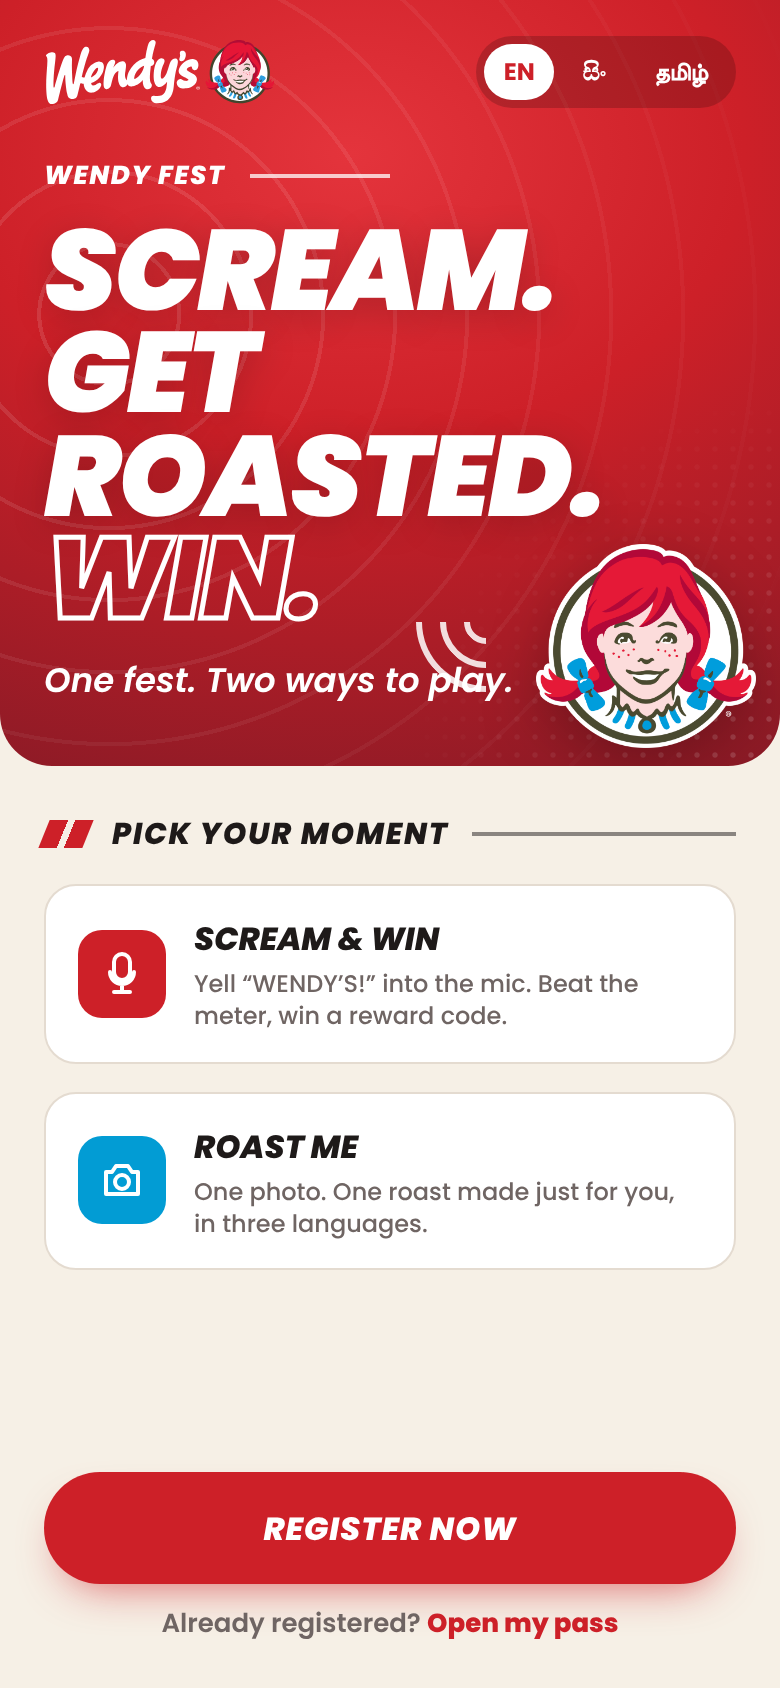
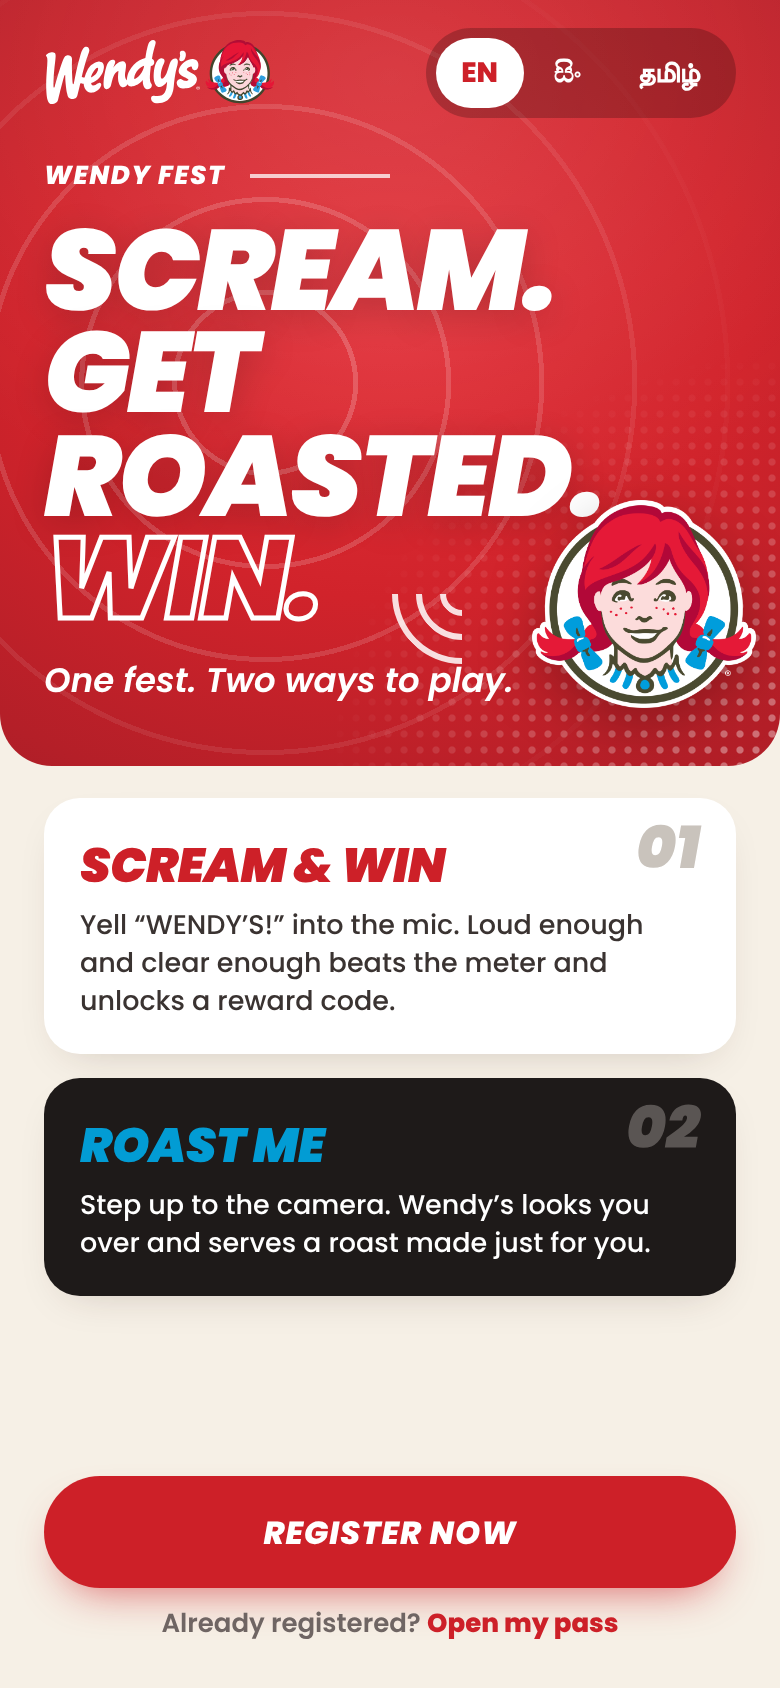
Design proposal: match reference screens (header, entry pass, profile pass); keep original cards and form
Claude-Session: https://claude.ai/code/session_015MHPvZ3kkn8jw5YatKY7r4

diff --git a/design/after.css b/design/after.css
@@ -6,17 +6,21 @@ body { font-family: Poppins, system-ui, sans-serif; color:var(--ink); background
 .phone { width:390px; height:844px; overflow:hidden; position:relative; background:var(--cream); display:flex; flex-direction:column; }
 
 /* ---- red header ---- */
-.hdr { position:relative; color:#fff; padding:16px 22px 26px; border-radius:0 0 26px 26px; overflow:hidden; flex:none;
-  background: radial-gradient(120% 90% at 45% 20%, var(--red-hi) 0%, var(--red) 42%, var(--red-lo) 100%); }
-.hdr::before { content:""; position:absolute; inset:-40%; pointer-events:none; opacity:.14;
-  background: repeating-radial-gradient(circle at 30% 45%, transparent 0 34px, rgba(255,255,255,.9) 34px 36px); mask: radial-gradient(circle at 30% 45%, #000 0%, transparent 62%); -webkit-mask: radial-gradient(circle at 30% 45%, #000 0%, transparent 62%); }
-.hdr::after { content:""; position:absolute; right:-10px; bottom:-10px; width:200px; height:200px; pointer-events:none; opacity:.35;
-  background: radial-gradient(rgba(255,255,255,.55) 1.1px, transparent 1.6px) 0 0/9px 9px; mask: radial-gradient(circle at 100% 100%, #000 0%, transparent 70%); -webkit-mask: radial-gradient(circle at 100% 100%, #000 0%, transparent 70%); }
+.hdr { position:relative; color:#fff; padding:16px 22px 26px; border-radius:0 0 26px 26px; overflow:hidden; flex:none; --rx:50%; --ry:40%;
+  background:
+    radial-gradient(140% 110% at 50% 10%, rgba(255,255,255,.10) 0%, transparent 55%),
+    radial-gradient(120% 100% at 50% 40%, #E3333B 0%, #D1232B 38%, #B41F28 68%, #8C1A23 100%); }
+.hdr::before { content:""; position:absolute; inset:0; pointer-events:none; opacity:.22;
+  background: repeating-radial-gradient(circle at var(--rx) var(--ry), transparent 0 44px, rgba(255,255,255,1) 44px 46.5px);
+  mask: radial-gradient(circle at var(--rx) var(--ry), #000 0%, rgba(0,0,0,.6) 45%, transparent 78%); -webkit-mask: radial-gradient(circle at var(--rx) var(--ry), #000 0%, rgba(0,0,0,.6) 45%, transparent 78%); }
+.hdr::after { content:""; position:absolute; right:-6px; bottom:-6px; width:230px; height:210px; pointer-events:none; opacity:.55;
+  background: radial-gradient(rgba(255,255,255,.75) 1.5px, transparent 2.1px) 0 0/8px 8px;
+  mask: radial-gradient(ellipse at 100% 100%, #000 0%, rgba(0,0,0,.5) 40%, transparent 72%); -webkit-mask: radial-gradient(ellipse at 100% 100%, #000 0%, rgba(0,0,0,.5) 40%, transparent 72%); }
 .hdr > * { position:relative; z-index:1; }
 .top { display:flex; justify-content:space-between; align-items:center; height:40px; }
 .top .lockup { height:34px; }
-.pill { display:flex; align-items:center; gap:4px; background:rgba(0,0,0,.18); border-radius:999px; padding:4px; font-size:12px; font-weight:700; }
-.pill span { padding:5px 10px; border-radius:999px; }
+.pill { display:flex; align-items:center; gap:2px; background:rgba(0,0,0,.22); border-radius:999px; padding:5px; font-size:14px; font-weight:800; }
+.pill span { padding:7px 13px; border-radius:999px; }
 .pill .on { background:#fff; color:var(--red); }
 .eyebrow { display:flex; align-items:center; gap:12px; font-style:italic; font-weight:800; text-transform:uppercase; letter-spacing:.06em; font-size:13px; margin-top:22px; }
 .eyebrow::after { content:""; flex:1; max-width:70px; height:2px; background:rgba(255,255,255,.75); }
@@ -27,12 +31,12 @@ body { font-family: Poppins, system-ui, sans-serif; color:var(--ink); background
 .h1 { font-size:57px; margin-top:12px; text-shadow:0 4px 18px rgba(0,0,0,.18); }
 .h1 .outline { color:transparent; -webkit-text-stroke:2.5px #fff; text-shadow:none; }
 .h2 { font-size:52px; margin-top:12px; }
-.sub { font-style:italic; font-weight:600; font-size:17px; margin-top:12px; }
+.sub { font-style:italic; font-weight:600; font-size:18px; margin-top:12px; }
 .waves { position:absolute; width:70px; height:70px; }
 .waves i { position:absolute; inset:0; border:3px solid rgba(255,255,255,.85); border-radius:50%; border-color:rgba(255,255,255,.85) transparent transparent transparent; transform:rotate(-135deg); }
 .waves i:nth-child(2) { inset:12px; border-width:3px; } .waves i:nth-child(3) { inset:24px; }
 .cameo { position:absolute; filter:drop-shadow(0 8px 14px rgba(0,0,0,.25)); }
-.check { width:64px; height:64px; border-radius:50%; border:4px solid #fff; display:grid; place-items:center; margin:18px auto 0; }
+.check { width:80px; height:80px; border-radius:50%; border:5px solid #fff; display:grid; place-items:center; margin:16px auto 0; }
 
 /* ---- body ---- */
 .body { padding:18px 22px 22px; display:flex; flex-direction:column; flex:1; gap:14px; }
@@ -60,35 +64,37 @@ body { font-family: Poppins, system-ui, sans-serif; color:var(--ink); background
 .consent i::after { content:""; position:absolute; left:6px; top:2px; width:4px; height:9px; border:solid #fff; border-width:0 2px 2px 0; transform:rotate(45deg); }
 
 /* entry pass card */
-.epass { position:relative; background:#fff; border-radius:18px; border:1.5px solid var(--line); overflow:hidden; padding:18px 18px 16px; }
-.epass::before { content:""; position:absolute; left:-30px; top:-30px; width:120px; height:60px; background:var(--red); border-radius:0 0 60px 0; transform:rotate(-8deg); }
-.epass .head { display:flex; align-items:center; gap:14px; position:relative; }
-.epass .head .lockup { height:34px; }
-.epass .head .vr { width:1.5px; height:40px; background:var(--line); }
-.epass .head .t1 { font-weight:800; font-style:italic; text-transform:uppercase; font-size:14px; }
-.epass .head .t2 { color:var(--red); font-weight:800; letter-spacing:.14em; text-transform:uppercase; font-size:12px; }
-.epass .hr { height:1.5px; background:var(--line); margin:16px -18px; }
-.code { font-weight:900; font-style:italic; font-size:50px; letter-spacing:.02em; line-height:1; }
-.copy { width:44px; height:44px; border:2px solid var(--red); border-radius:10px; display:grid; place-items:center; color:var(--red); flex:none; }
-.onecode { display:flex; align-items:center; gap:10px; font-weight:800; letter-spacing:.16em; text-transform:uppercase; font-size:11px; margin-top:12px; }
+.epass { position:relative; background:#FBF6EE; border-radius:16px; border:1.5px solid #B9B0A6; overflow:hidden; padding:22px 20px 22px; }
+.epass .swoosh { position:absolute; left:-2px; top:-2px; width:200px; height:70px; pointer-events:none; }
+.epass .head { display:flex; align-items:center; gap:18px; position:relative; }
+.epass .head .lockup { height:44px; }
+.epass .head .vr { width:1.5px; height:56px; background:#8F867E; }
+.epass .head .t1 { font-weight:800; font-style:italic; text-transform:uppercase; font-size:17px; letter-spacing:.02em; color:#1E1A19; }
+.epass .head .t2 { color:var(--red); font-weight:800; letter-spacing:.14em; text-transform:uppercase; font-size:15px; margin-top:2px; }
+.epass .hr { height:1.5px; background:#9E958C; margin:20px 0 20px; }
+.code { font-weight:900; font-style:italic; font-size:54px; letter-spacing:-.01em; line-height:1; color:#1E1A19; }
+.copy { width:54px; height:54px; border:1.5px solid #C9A7A9; background:#FFF8F2; border-radius:12px; display:grid; place-items:center; color:var(--red); flex:none; box-shadow:0 2px 0 #E8D8D4; }
+.onecode { display:flex; align-items:center; gap:12px; font-weight:800; letter-spacing:.16em; text-transform:uppercase; font-size:12px; margin-top:16px; color:#1E1A19; }
 .onecode::before, .onecode::after { content:""; flex:1; height:1.5px; background:var(--red); }
-.barcode { height:46px; margin:12px 0 0; background:repeating-linear-gradient(90deg, var(--ink) 0 2px, transparent 2px 4px, var(--ink) 4px 5px, transparent 5px 8px, var(--ink) 8px 11px, transparent 11px 13px, var(--ink) 13px 14px, transparent 14px 18px); border-radius:2px; }
+.barcode { height:48px; margin:14px 6px 0; background:repeating-linear-gradient(90deg, #1E1A19 0 2px, transparent 2px 4px, #1E1A19 4px 5px, transparent 5px 9px, #1E1A19 9px 12px, transparent 12px 14px, #1E1A19 14px 15px, transparent 15px 17px, #1E1A19 17px 19px, transparent 19px 23px); }
 .note { text-align:center; margin-top:4px; }
-.note b { display:block; font-style:italic; font-weight:800; font-size:17px; }
-.note span { font-style:italic; font-size:14px; color:var(--mute); }
+.note b { display:block; font-style:italic; font-weight:800; font-size:19px; }
+.note span { font-style:italic; font-size:15px; color:#3A3331; font-weight:500; }
 
 /* profile pass */
-.ppass { position:relative; margin-top:16px; border-radius:16px; overflow:hidden; padding:16px 18px 18px; color:#fff; border:1.5px solid rgba(255,255,255,.35);
-  background: linear-gradient(135deg, #E23A42 0%, var(--red) 45%, #9E1F2B 100%); box-shadow:0 14px 26px -14px rgba(0,0,0,.45); }
-.ppass .wf { font-weight:800; font-style:italic; text-transform:uppercase; font-size:13px; display:flex; align-items:center; gap:10px; }
-.ppass .wf::after { content:""; width:36px; height:2px; background:rgba(255,255,255,.7); }
-.ppass .pn { font-weight:700; letter-spacing:.12em; text-transform:uppercase; font-size:11px; margin-top:6px; opacity:.95; }
-.ppass .name { font-size:30px; margin-top:8px; width:230px; }
-.ppass .ec { margin-top:14px; display:flex; align-items:center; gap:12px; }
-.ppass .ec .l { font-weight:700; letter-spacing:.12em; text-transform:uppercase; font-size:11px; }
-.ppass .ec .c { font-weight:900; font-style:italic; font-size:26px; letter-spacing:.02em; }
-.ppass .copy { width:40px; height:40px; border-color:#fff; color:#fff; border-radius:9px; }
-.ppass .ghost { position:absolute; right:-40px; top:0; height:118%; opacity:.28; filter:grayscale(1) brightness(1.25); mix-blend-mode:screen; pointer-events:none; }
+.ppass { position:relative; margin-top:18px; border-radius:18px; overflow:hidden; padding:20px 20px 22px; color:#fff; border:2px solid rgba(255,255,255,.85);
+  background: linear-gradient(118deg, #D9262E 0%, #C7212A 48%, #A61D27 100%); box-shadow:0 16px 30px -14px rgba(0,0,0,.5); }
+.ppass .wf { font-weight:800; font-style:italic; text-transform:uppercase; font-size:16px; letter-spacing:.02em; display:flex; align-items:center; gap:12px; }
+.ppass .wf::after { content:""; width:44px; height:2px; background:rgba(255,255,255,.85); }
+.ppass .pn { font-weight:700; letter-spacing:.14em; text-transform:uppercase; font-size:13px; margin-top:8px; }
+.ppass .name { font-size:34px; margin-top:10px; width:250px; line-height:.95; }
+.ppass .rule { height:1.5px; background:rgba(255,255,255,.8); margin:16px 0 14px; width:62%; }
+.ppass .ec { display:flex; align-items:center; gap:16px; }
+.ppass .ec .l { font-weight:800; letter-spacing:.14em; text-transform:uppercase; font-size:14px; }
+.ppass .ec .c { font-weight:900; font-style:italic; font-size:34px; letter-spacing:.01em; line-height:1.05; }
+.ppass .copy { width:52px; height:52px; border:2px solid rgba(255,255,255,.9); background:rgba(255,255,255,.06); color:#fff; border-radius:12px; box-shadow:none; }
+.ppass .ghost { position:absolute; right:-60px; top:-4px; height:114%; opacity:.55; filter:grayscale(1) contrast(1.05) brightness(1.05); mix-blend-mode:multiply; pointer-events:none; }
+.ppass > *:not(.ghost) { position:relative; z-index:1; }
 .two { display:grid; grid-template-columns:1fr 1fr; gap:12px; }
 .tiles { display:grid; grid-template-columns:repeat(4,1fr); gap:8px; }
 .tile { border:1.5px solid var(--line); border-radius:12px; background:#fff; padding:10px 4px; text-align:center; font-weight:800; font-size:9.5px; letter-spacing:.04em; text-transform:uppercase; display:grid; justify-items:center; gap:6px; }
@@ -97,3 +103,21 @@ body { font-family: Poppins, system-ui, sans-serif; color:var(--ink); background
 .stat .k { font-weight:800; font-style:italic; text-transform:uppercase; font-size:13px; }
 .stat .v { font-weight:900; font-style:italic; font-size:22px; color:var(--red); }
 .stat .m { font-size:11.5px; color:var(--mute); }
+
+/* landing cards (kept from the original mock) */
+.mcard { position:relative; background:#fff; border-radius:18px; padding:16px 18px 16px; box-shadow:0 8px 22px -12px rgba(60,30,25,.25); }
+.mcard .num { position:absolute; right:18px; top:10px; font-weight:900; font-style:italic; font-size:30px; color:#C9C3BC; line-height:1; }
+.mcard .t { font-weight:900; font-style:italic; text-transform:uppercase; font-size:24px; color:var(--red); letter-spacing:-.01em; }
+.mcard .d { font-size:13.5px; line-height:1.4; color:#3A3331; margin-top:4px; font-weight:500; }
+.mcard.dark { background:#1E1A19; }
+.mcard.dark .t { color:var(--blue); } .mcard.dark .d { color:#fff; } .mcard.dark .num { color:#5A5553; }
+/* register form (kept from the original mock) */
+.form { background:#fff; border-radius:22px; padding:20px 18px 18px; box-shadow:0 12px 30px -16px rgba(60,30,25,.35); position:relative; z-index:2; }
+.field { margin-bottom:12px; }
+.field label { font-size:15px; }
+.field .in { height:52px; border-radius:14px; border:1.5px solid #CFC7BE; font-size:16px; }
+.field .in.ph { color:#9A918A; font-weight:500; }
+.field .help { font-size:12px; color:var(--mute); margin-top:6px; }
+.consent { font-size:12.5px; color:#3A3331; padding:2px 2px 14px; align-items:center; }
+.consent span { line-height:1.35; }
+.form .btn { margin-top:2px; }

diff --git a/design/after.html b/design/after.html
@@ -13,19 +13,18 @@
 
 <!-- 1 LANDING -->
 <section class="phone" id="landing">
-  <header class="hdr" style="padding-bottom:30px">
+  <header class="hdr" style="padding-bottom:30px;--rx:34%;--ry:50%">
     <div class="top"><img class="lockup" src="wendys-horiz-white.svg" alt="Wendy's"><div class="pill"><span class="on">EN</span><span>සිං</span><span>தமிழ்</span></div></div>
     <div class="eyebrow">Wendy Fest</div>
     <h1 class="display h1">Scream.<br>Get<br>roasted.<br><span class="outline">Win.</span></h1>
-    <p class="sub">One fest. Two ways to play.</p>
-    <div class="waves" style="right:112px;top:276px"><i></i><i></i><i></i></div>
-    <img class="cameo" src="cameo.png" alt="" style="right:12px;top:272px;width:110px">
+    <p class="sub" style="max-width:238px;font-size:17px">One fest. Two ways to play.</p>
+    <div class="waves" style="right:124px;top:262px"><i></i><i></i><i></i></div>
+    <img class="cameo" src="cameo.png" alt="" style="right:12px;top:250px;width:112px">
   </header>
-  <div class="body">
-    <div class="eyebrow dark" style="margin-top:4px">Pick your moment</div>
-    <div class="card opt"><div class="ic"><svg width="24" height="24"><use href="#i-mic"/></svg></div><div><div class="t">Scream &amp; Win</div><div class="d">Yell “WENDY’S!” into the mic. Beat the meter, win a reward code.</div></div></div>
-    <div class="card opt"><div class="ic blue"><svg width="24" height="24"><use href="#i-cam"/></svg></div><div><div class="t">Roast Me</div><div class="d">One photo. One roast made just for you, in three languages.</div></div></div>
-    <div style="margin-top:auto;display:grid;gap:10px">
+  <div class="body" style="gap:12px;padding-top:16px">
+    <div class="mcard"><div class="num">01</div><div class="t">Scream &amp; Win</div><div class="d">Yell “WENDY’S!” into the mic. Loud enough and clear enough beats the meter and unlocks a reward code.</div></div>
+    <div class="mcard dark"><div class="num">02</div><div class="t">Roast Me</div><div class="d">Step up to the camera. Wendy’s looks you over and serves a roast made just for you.</div></div>
+    <div style="margin-top:auto;display:grid;gap:8px">
       <a class="btn" href="#">Register now</a>
       <div class="link">Already registered? <b>Open my pass</b></div>
     </div>
@@ -34,39 +33,38 @@
 
 <!-- 2 REGISTER -->
 <section class="phone" id="register">
-  <header class="hdr">
+  <header class="hdr" style="padding-bottom:56px;--rx:30%;--ry:60%">
     <div class="top"><img class="lockup" src="wendys-horiz-white.svg" alt="Wendy's"><div class="pill"><span class="on">EN</span><span>සිං</span><span>தமிழ்</span></div></div>
-    <div class="eyebrow">Your moment starts here</div>
-    <h1 class="display h2">Make it<br>yours.</h1>
+    <div class="eyebrow" style="margin-top:16px">Wendy Fest</div>
+    <h1 class="display h2" style="font-size:46px;margin-top:8px">Register</h1>
+    <p class="sub" style="font-style:normal;font-weight:600;font-size:15px;margin-top:8px">Your next big moment starts here.</p>
   </header>
-  <div class="body" style="gap:12px">
-    <div class="card form">
-      <div class="field"><label>Full name</label><div class="in">Hirusha Dayananda</div></div>
-      <div class="field"><label>Mobile number</label><div class="in">077 123 4567</div></div>
-      <div class="field"><label>Email <small>(optional)</small></label><div class="in ph">you@example.com</div></div>
-      <div class="field"><label>Date of birth</label><div class="in ph">DD / MM / YYYY</div></div>
-      <label class="consent"><i></i><span>Wendy’s Sri Lanka can message me about Wendy Fest and launch offers.</span></label>
-    </div>
-    <div style="margin-top:auto;display:grid;gap:10px">
+  <div class="body" style="gap:12px;padding-top:0;margin-top:-40px">
+    <div class="form">
+      <div class="field"><label>Your name</label><div class="in"></div></div>
+      <div class="field"><label>Mobile number</label><div class="in ph">07X XXX XXXX</div><div class="help">We’ll SMS your code to this number.</div></div>
+      <div class="field"><label>Email <small>(optional)</small></label><div class="in"></div></div>
+      <div class="field"><label>Date of birth</label><div class="in"></div></div>
+      <label class="consent"><i></i><span>I agree to Wendy’s Sri Lanka contacting me about Wendy Fest and launch offers.</span></label>
       <a class="btn" href="#">Get my code</a>
-      <div class="link">We’ll SMS your code to this number.</div>
     </div>
   </div>
 </section>
 
 <!-- 3 CONFIRM -->
 <section class="phone" id="confirm">
-  <header class="hdr" style="text-align:center;padding-bottom:24px">
+  <header class="hdr" style="text-align:center;padding-bottom:26px;--rx:50%;--ry:46%">
     <div class="top"><img class="lockup" src="wendys-horiz-white.svg" alt="Wendy's"><div class="pill"><span class="on">EN</span><span>සිං</span><span>தமிழ்</span></div></div>
-    <div class="check"><svg width="32" height="32"><use href="#i-check"/></svg></div>
-    <h1 class="display h2" style="margin-top:12px">You’re in.</h1>
+    <div class="check"><svg width="40" height="40"><use href="#i-check"/></svg></div>
+    <h1 class="display h2" style="margin-top:14px;font-size:58px">You’re in.</h1>
     <p class="sub" style="margin-top:8px">Your Wendy Fest pass is ready.</p>
   </header>
   <div class="body">
     <div class="epass">
+      <svg class="swoosh" viewBox="0 0 200 70" aria-hidden="true"><path d="M0 0H190C150 26 120 18 100 34 80 50 40 48 0 70Z" fill="#CD2028"/><path d="M0 0H172C140 20 118 14 100 28 82 42 44 42 0 58Z" fill="#B91E27" opacity=".35"/></svg>
       <div class="head"><img class="lockup" src="wendys-horiz.svg" alt="Wendy's"><div class="vr"></div><div><div class="t1">Wendy Fest</div><div class="t2">Entry pass</div></div></div>
       <div class="hr"></div>
-      <div style="display:flex;justify-content:space-between;align-items:center"><div class="code">CWN3VB</div><div class="copy"><svg width="22" height="22"><use href="#i-copy"/></svg></div></div>
+      <div style="display:flex;justify-content:space-between;align-items:center"><div class="code">CWN3VB</div><div class="copy"><svg width="30" height="30" viewBox="0 0 24 24" fill="none" stroke="currentColor" stroke-width="2"><rect x="4" y="7" width="11" height="13" rx="2.5"/><rect x="9" y="3" width="11" height="13" rx="2.5" fill="#FFF8F2"/></svg></div></div>
       <div class="onecode">One code. Both experiences.</div>
       <div class="barcode"></div>
     </div>
@@ -80,7 +78,7 @@
 
 <!-- 4 PROFILE -->
 <section class="phone" id="profile">
-  <header class="hdr" style="padding-bottom:18px">
+  <header class="hdr" style="padding-bottom:20px;--rx:40%;--ry:35%">
     <div class="top"><img class="lockup" src="wendys-horiz-white.svg" alt="Wendy's"><div class="pill"><span class="on">EN</span><span>සිං</span><span>தமிழ்</span></div></div>
     <div class="eyebrow" style="margin-top:14px">Your fest. Your stats.</div>
     <h1 class="display" style="font-size:44px;margin-top:6px">My profile</h1>
@@ -89,7 +87,8 @@
       <div class="wf">Wendy Fest</div>
       <div class="pn">Participant #0002</div>
       <div class="display name">Hirusha<br>Dayananda</div>
-      <div class="ec"><div><div class="l">Entry code</div><div class="c">CWN3VB</div></div><div class="copy"><svg width="20" height="20"><use href="#i-copy"/></svg></div></div>
+      <div class="rule"></div>
+      <div class="ec"><div><div class="l">Entry code</div><div class="c">CWN3VB</div></div><div class="copy"><svg width="30" height="30" viewBox="0 0 24 24" fill="none" stroke="currentColor" stroke-width="2"><rect x="3" y="8" width="9" height="12" rx="2.5"/><rect x="7.5" y="5" width="9" height="12" rx="2.5" fill="#C7212A"/><rect x="12" y="2" width="9" height="12" rx="2.5" fill="#C7212A"/></svg></div></div>
     </div>
   </header>
   <div class="body" style="gap:12px">
